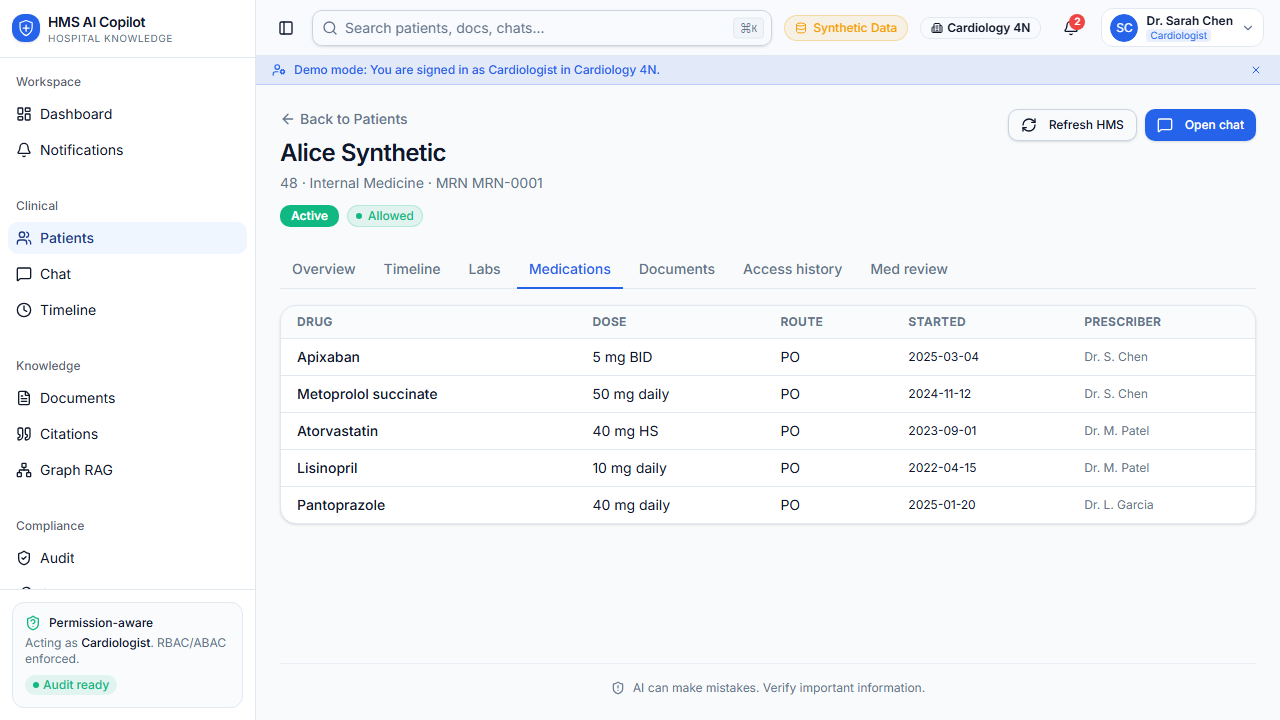
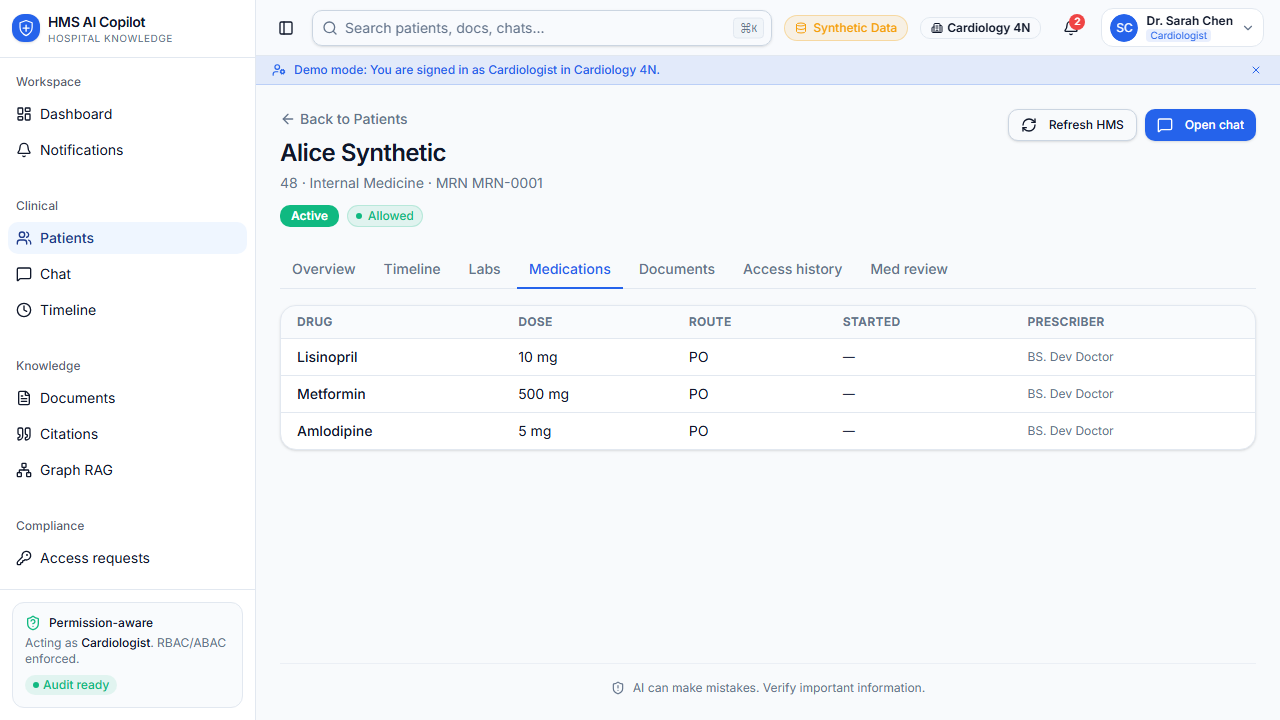
chore: update agent configs, docs, and screen-demo snapshots
- AGENTS.md / CLAUDE.md: sync GitNexus index metadata (84536 symbols)
- .khuym/state.json: checkpoint state after graph RAG v2 completion
- docs/dataset_generation_instruction.md: new — documents how the
  100-patient synthetic dataset was generated with Faker + clinical rules
- docs/plan-rag-graph-improvements.md: new — roadmap for graph RAG v3
  (community detection, temporal reasoning, multi-hop traversal)
- app/screen-demo/: refresh all 23 existing screenshots to reflect
  live-data UI; update audit, patients, chat, timeline, graph views

diff --git a/docs/plan-rag-graph-improvements.md b/docs/plan-rag-graph-improvements.md
@@ -1,0 +1,200 @@
+# Implementation Plan: RAG Ingestion, Graph Filtering, and Citations Hardening
+
+This document outlines a detailed multi-phase plan to upgrade the parsing, graph retrieval, and citation validation capabilities of the **AI-Powered Hospital Knowledge Assistant (HOSP-AI-001)**. 
+
+---
+
+## Phase 1: Advanced Document and Table Ingestion (RAGFlow-Inspired)
+**Goal:** Improve chunk semantics for structured data (tables, grids, Excel, CSV) by adopting layout-aware parsing concepts without bringing in RAGFlow's full infrastructure stack.
+
+### Task 1.1: Layout-Aware PDF & DOCX Parsing
+*   **Goal:** Replace plain text extraction with layout-aware text block segmentation to handle double-column medical records, footers, headers, and floating text boxes correctly.
+*   **Proposed Implementation:**
+    *   Integrate a lightweight layout parsing library (such as `pdfplumber` or `pypdf` with structural grouping) into [pdf_loader.py](file:///D:/projects/chatbot-hospital-system/app/backend/src/hospital_ai/services/loaders/pdf_loader.py).
+    *   Identify and strip repeated headers/footers to avoid polluting the vector index.
+*   **Acceptance Criteria:**
+    *   Double-column clinical notes are parsed in correct reading order (left column then right column) instead of interleaving lines.
+    *   All parsing is completed locally without external API calls.
+*   **Exceptions:**
+    *   Large scanned images within PDFs that require heavy OCR engines (PaddleOCR will still handle basic text, but layout analysis will fallback to text-position heuristics for performance).
+
+### Task 1.2: Structured Table & Grid Preserving Parser
+*   **Goal:** Reconstruct tabular data from Excel (`.xlsx`) and PDF tables into semantic Markdown/HTML table blocks instead of converting them into disjointed text lines.
+*   **Proposed Implementation:**
+    *   Upgrade [table_parser.py](file:///D:/projects/chatbot-hospital-system/app/backend/src/hospital_ai/services/loaders/table_parser.py) and [excel_loader.py](file:///D:/projects/chatbot-hospital-system/app/backend/src/hospital_ai/services/loaders/excel_loader.py) to read rows and columns structured as Markdown tables.
+    *   Store table headers alongside each row chunk during indexing so that individual rows retain context (e.g., instead of just embedding `Value: 1.5`, embed `Analyte: Creatinine; Value: 1.5; Unit: mg/dL; Reference Range: 0.7-1.3`).
+*   **Acceptance Criteria:**
+    *   Tabular files are indexed as readable Markdown tables.
+    *   A vector search query for a specific cell value retrieves the context of its header (column name) and row descriptor.
+*   **Exceptions:**
+    *   Merged cells spanning multiple rows/columns will be simplified to repeat values in all spanned cells rather than complex HTML rendering.
+
+### Task 1.3: Table-Specific Chunking Strategy
+*   **Goal:** Prevent table splits across arbitrary token boundaries that render rows unreadable.
+*   **Proposed Implementation:**
+    *   Modify [chunking.py](file:///D:/projects/chatbot-hospital-system/app/backend/src/hospital_ai/services/chunking.py) to recognize table markdown tags (`|---|`) and treat tables as atomic chunking units or split them strictly by rows, appending the header row to each split chunk.
+*   **Acceptance Criteria:**
+    *   Zero chunks contain partial, broken markdown tables.
+    *   Every split table chunk contains the column headers.
+*   **Exceptions:**
+    *   Tables exceeding 100 rows will be batched into chunks of 10 rows, each prepended with the header row.
+
+### Phase 1 Checkpoint: Commit & Review
+*   **Verification:** Run linting and unit tests (`bun run test` / `pytest`).
+*   **Code Review:** Review loader class changes to check memory footprint and table parsing correctness.
+*   **Commit:** Git commit changes with message `feat(RAG): layout-aware PDF and structured table ingestion`.
+
+---
+
+## Phase 2: Enhanced Graph RAG Retrieval and Filtering
+**Goal:** Add dynamic entity/role-based filtering to the SQL-backed graph database and expose these filters to the API and visual graph layout.
+
+### Task 2.1: Dynamic Entity & Relation Filtering in Graph RAG Service
+*   **Goal:** Support filtering by entity type (`drug`, `condition`, `lab`) and relation type (`treats`, `indicates`, `monitored_by`) during graph traversal.
+*   **Proposed Implementation:**
+    *   Extend `find_related_entities()` in [graph_rag.py](file:///D:/projects/chatbot-hospital-system/app/backend/src/hospital_ai/services/graph_rag.py#L270) to accept optional lists of allowed entity types and relation types.
+    *   Update the BFS SQL query to filter `GraphEntity` and `GraphRelation` records at each hop based on these filters.
+*   **Acceptance Criteria:**
+    *   Executing a graph search with `entity_types=["drug"]` returns only drug nodes and relations connected to them.
+    *   BFS traversal respects these constraints at every hop.
+*   **Exceptions:**
+    *   Root patient node is always returned regardless of the entity type filters.
+
+### Task 2.2: Expose Graph Filters to API Route
+*   **Goal:** Add query parameters to `/api/graph/patients/{patient_id}` to allow clients to filter the returned graph payload dynamically.
+*   **Proposed Implementation:**
+    *   Update [graph.py](file:///D:/projects/chatbot-hospital-system/app/backend/src/hospital_ai/api/routes/graph.py#L33) to accept optional query parameters: `types: list[str] = Query(None)` and `relations: list[str] = Query(None)`.
+    *   Pass these filters to the database query logic and compute coordinates only for active nodes.
+*   **Acceptance Criteria:**
+    *   API returns a `GraphDataResponse` containing only nodes matching the selected type list.
+    *   Edges connecting excluded nodes are omitted from the response.
+*   **Exceptions:**
+    *   If no entities match the filters, return the root patient node with an empty node/edge list instead of raising an error.
+
+### Task 2.3: User-Role Permission Filtering on Graph Nodes
+*   **Goal:** Ensure that users with specific roles (e.g., non-clinical administrative staff) cannot see clinical nodes (e.g., `lab` results, sensitive `diagnosis` nodes) even if they have general read access to the patient's record.
+*   **Proposed Implementation:**
+    *   Integrate [PermissionService](file:///D:/projects/chatbot-hospital-system/app/backend/src/hospital_ai/services/permissions.py) checks into the entity extraction and retrieval query, masking or excluding nodes based on user scope.
+*   **Acceptance Criteria:**
+    *   An admin user querying the graph receives a graph visualization with `lab` nodes filtered out, while a cardiologist user receives all nodes.
+*   **Exceptions:**
+    *   General non-PHI nodes (such as appointment dates or basic demographic fields) are visible to all authorized roles.
+
+### Phase 2 Checkpoint: Commit & Review
+*   **Verification:** Verify the graph API endpoint and test parameter filtering via query parameters.
+*   **Code Review:** Run a security code review on the SQL filters to prevent SQL injection and ensure patient scope isolation.
+*   **Commit:** Git commit changes with message `feat(graph): dynamic filters and role permission checks on graph nodes`.
+
+---
+
+## Phase 3: Citations Hardening and Rich UI Rendering
+**Goal:** Harden citation validation to eliminate LLM hallucinations and support rich visual references (document names, page numbers, and tabular data view) on the frontend.
+
+### Task 3.1: Strict Citation Text Validation
+*   **Goal:** Prevent LLMs from citing sources for facts not contained in the cited chunk.
+*   **Proposed Implementation:**
+    *   In the citation validation pipeline in [chat_stream.py](file:///D:/projects/chatbot-hospital-system/app/backend/src/hospital_ai/api/routes/chat_stream.py#L179), run an automated check to ensure that the sentence/phrase containing `[E1]` has semantic overlap or keyword match with the actual text in chunk `E1`.
+    *   If the LLM makes an assertion (e.g., "Creatinine is 2.5 [E2]") but the text in `E2` does not contain the value "2.5" or "Creatinine", raise a `CitationHallucinationException`.
+*   **Acceptance Criteria:**
+    *   Any mismatch of medical values (numbers, drug names) between the cited sentence and the source chunk triggers an immediate fallback or warning.
+*   **Exceptions:**
+    *   Minor grammatical variations or synonym matching (e.g., "sugar level" vs "glucose") are permitted to avoid excessive false positives.
+
+### Task 3.2: Extended Citation Metadata Payload
+*   **Goal:** Expose document layout details (such as page number, document name, and whether the cited source is a table) in the API response.
+*   **Proposed Implementation:**
+    *   Ensure the citation payload returned by the chat API includes structural flags: `is_table: bool`, `source_file: str`, and `page_number: int`.
+    *   Update [chat_utils.py](file:///D:/projects/chatbot-hospital-system/app/backend/src/hospital_ai/services/chat_utils.py#L168) to map these fields correctly.
+*   **Acceptance Criteria:**
+    *   The `/api/chat` and `/api/chat/stream` endpoints return a `citations` array containing metadata for every cited chunk.
+*   **Exceptions:**
+    *   Dynamic chat messages (e.g., greetings) do not require citations or return an empty array.
+
+### Task 3.3: Rich Citation UI Popover on Frontend
+*   **Goal:** Render citations as clickable badges that open a clean side-panel or popover displaying the exact source document, page, and highlighted snippet.
+*   **Proposed Implementation:**
+    *   Implement a citation component in the frontend using Tailwind/CSS.
+    *   If `is_table` is True, render the citation snippet as a formatted table grid instead of markdown source code.
+*   **Acceptance Criteria:**
+    *   Clicking a citation badge (e.g., `[1]`) opens a modal/drawer showing the document title, page number, and the exact verified chunk text.
+    *   Tables are rendered with clear grid borders.
+*   **Exceptions:**
+    *   If the original document is deleted or missing, display a fallback message stating "Source document is no longer available."
+
+### Task 3.4: Integrate Clinical System Prompt and Formatting Rules (Backend)
+*   **Goal:** Standardize LLM responses to use user-friendly clinical language instead of raw database structures or verbatim file dumps.
+*   **Proposed Implementation:**
+    *   Import and actively use the [RAG_SYSTEM_PROMPT](file:///D:/projects/chatbot-hospital-system/app/backend/src/hospital_ai/core/prompts/rag_system_prompt.py) (which is currently defined but unused in the codebase) or integrate its rules into all reasoning pipelines.
+    *   Instruct the LLM to convert raw database rows and unformatted text blocks into clear, clinician-oriented sentences, utilizing markdown headings, bold accents, and list structures.
+*   **Acceptance Criteria:**
+    *   The LLM no longer dumps raw DB row keys (e.g. `patient_id=...`) and instead writes clean prose.
+*   **Exceptions:**
+    *   Standard medical abbreviations (e.g. eGFR, BP, BID) should be preserved to align with clinical standard practices.
+
+### Task 3.5: Support Markdown Rendering in Chat Message UI (Frontend)
+*   **Goal:** Render markdown formats (such as bolding, lists, and tables) within chat bubbles instead of displaying them as raw string segments.
+*   **Proposed Implementation:**
+    *   Implement a basic markdown parser or component inside [ChatMessage.tsx](file:///D:/projects/chatbot-hospital-system/app/frontend/src/components/hms/ChatMessage.tsx) to handle formatting tags (`**`, `-`, `###`, etc.) dynamically alongside citation badge replacement.
+*   **Acceptance Criteria:**
+    *   Markdown syntax is converted to visual HTML layouts, rendering clean bulleted lists, bold headings, and inline emphasis tags on screen.
+*   **Exceptions:**
+    *   Complex custom tables will be rendered in the citation details sidebar or drawer rather than cluttering the chat bubble.
+
+### Phase 3 Checkpoint: Commit & Review
+*   **Verification:** Verify the citation validation pipeline handles hallucinated references correctly and check the markdown parser UI rendering.
+*   **Code Review:** Perform a security review of input sanitization in the markdown renderer to prevent XSS.
+*   **Commit:** Git commit changes with message `feat(chat): strict citation validator and frontend markdown rendering`.
+
+---
+
+## Phase 4: Advanced RAG Strategies (Learning from LightRAG & RAGFlow)
+**Goal:** Implement advanced optimization techniques inspired by LightRAG's graph retrieval mechanisms and RAGFlow's indexing/retrieval pipeline.
+
+### Task 4.1: Incremental Graph Updates (Inspired by LightRAG)
+*   **Goal:** Support updating the SQL-backed graph incrementally when a new patient document is uploaded, rather than fully re-indexing the entire patient graph.
+*   **Proposed Implementation:**
+    *   Update [graph_rag.py](file:///D:/projects/chatbot-hospital-system/app/backend/src/hospital_ai/services/graph_rag.py) to support upserts for `GraphEntity` and `GraphRelation` tables.
+    *   When a new document chunk is processed, extract entities and merge them with existing entities (updating confidence/weights) instead of deleting old graph entries.
+*   **Acceptance Criteria:**
+    *   Uploading a new medical record adds new nodes/edges and increments weights of existing relationships dynamically without modifying unrelated nodes.
+*   **Exceptions:**
+    *   If a document is deleted, all entities and relationships derived *exclusively* from its chunks must be soft-deleted or cleaned up.
+
+### Task 4.2: Local vs. Global Graph Query Routing (Inspired by LightRAG)
+*   **Goal:** Optimize graph-assisted retrieval by distinguishing between detail-specific queries (Local Graph Search) and general trend queries (Global Graph Search).
+*   **Proposed Implementation:**
+    *   Implement a router inside `find_related_entities()`.
+    *   **Local Search:** Focuses on immediate neighbors of extracted seed entities (e.g., "What is the dosage of Aspirin for this patient?").
+    *   **Global Search:** Focuses on summarizing high-level diagnoses and timelines across all documents (e.g., "Summarize the patient's medical history over the past 3 years").
+*   **Acceptance Criteria:**
+    *   The retrieval service automatically detects the query intent and selects either Local Graph Search (BFS depth 1-2) or Global Graph Search (BFS summarizing main nodes) to compile the context.
+*   **Exceptions:**
+    *   If the LLM cannot confidently determine query intent, it defaults to a hybrid search mode.
+
+### Task 4.3: Visual Citation Bounding Boxes (Inspired by RAGFlow)
+*   **Goal:** Store text block coordinates during OCR/parsing to highlight the exact cited paragraph on the source PDF document.
+*   **Proposed Implementation:**
+    *   Modify [pdf_loader.py](file:///D:/projects/chatbot-hospital-system/app/backend/src/hospital_ai/services/loaders/pdf_loader.py) to capture text bounding boxes (x, y, width, height) returned by the parser.
+    *   Save these coordinates as metadata in the `document_chunks` database table.
+    *   Pass the coordinates in the citation metadata payload to the frontend.
+*   **Acceptance Criteria:**
+    *   The frontend PDF viewer draws a colored outline overlay on the exact paragraph corresponding to the cited evidence chunk.
+*   **Exceptions:**
+    *   Non-PDF formats (such as Excel or raw text files) do not have coordinates; they will display text/table snippets instead.
+
+### Task 4.4: Multi-Recall Search Optimization & Reranking (Inspired by RAGFlow)
+*   **Goal:** Balance keyword and semantic matches using Reciprocal Rank Fusion (RRF) and fine-tuned reranker thresholds.
+*   **Proposed Implementation:**
+    *   Optimize [retrieval.py](file:///D:/projects/chatbot-hospital-system/app/backend/src/hospital_ai/services/retrieval.py) and [reranking.py](file:///D:/projects/chatbot-hospital-system/app/backend/src/hospital_ai/services/reranking.py) to dynamically adjust RRF constants and reranker score cutoffs based on the query type (e.g., higher keyword weight for drug names, higher semantic weight for symptoms).
+*   **Acceptance Criteria:**
+    *   Queries for specific clinical codes or drug names yield 100% recall of matching documents.
+    *   Reranked results show higher clinical relevance in test datasets.
+*   **Exceptions:**
+    *   General chit-chat queries bypass this multi-recall pipeline entirely.
+
+### Phase 4 Checkpoint: Commit & Review
+*   **Verification:** Run RAG evaluation test scripts to verify the recall rates and check the visual highlights in the PDF viewer.
+*   **Code Review:** Check the incremental graph update logic to ensure soft-deletion handles deleted documents correctly.
+*   **Commit:** Git commit changes with message `feat(RAG): incremental graph updates and multi-recall search optimization`.
+
+

diff --git a/docs/dataset_generation_instruction.md b/docs/dataset_generation_instruction.md
@@ -1,0 +1,127 @@
+# Specification & AI Instruction Manual for Generating English HMS Datasets
+
+This document serves as a comprehensive specification and instruction set for generating the complete, realistic clinical and system datasets for the **AI-Powered Hospital Knowledge Assistant (HOSP-AI-001)**. 
+
+Following the project direction, **all clinical documents, guidelines, and safety databases must be generated in English** to align with the core MVP scope defined in [project-foundation.md](file:///d:/projects/chatbot-hospital-system/docs/00-overview/project-foundation.md#L90) and ensure maximum retrieval and reasoning accuracy.
+
+---
+
+## 1. Overview of Data Gaps & Target Roles
+
+The database currently lacks actual physical files (PDFs, XLSX, CSVs) for system ingestion, relying instead on database memory seeding. To test the system end-to-end (file upload $\rightarrow$ OCR parsing $\rightarrow$ chunking/embedding $\rightarrow$ Graph RAG), we need the following files generated and placed in the correct directories:
+
+| Role & Scopes | Document / Dataset Need | File Format | File Quantity | Pages/Records per File | Standard / Rules |
+| :--- | :--- | :--- | :--- | :--- | :--- |
+| **Cardiologist** / **Hospitalist**<br>(`cardiology_guidelines`, `diagnoses`, `imaging`) | **Clinical Records & Summaries** | `.pdf` or `.docx` | **100 files** (1 per patient) | 2–4 pages | Must follow the SOAP format (Subjective, Objective, Assessment, Plan). Must include stable MRNs (MRN-0001 to MRN-0100). |
+| **Nurse** / **RN**<br>(`hospital_guidelines`, `care_plan`) | **Nursing Care Plans & General Guidelines** | `.pdf` or `.md` | **5 files** | 5–10 pages | Nursing protocols, SBAR communication formats, wound care, and daily vital tracking procedures. |
+| **Pharmacist**<br>(`medication_safety`, `renal_labs`) | **Drug-Drug & Drug-Allergy Interaction Matrix** | `.csv` or `.xlsx` | **1 file** | ~500 rows | Structured matrix listing active drug interactions, contraindications, and allergy triggers. |
+| **Lab Staff**<br>(`labs`, `renal_labs`) | **Structured Lab Trend Sheets** | `.xlsx` or `.csv` | **100 files** (1 per patient) | 1 sheet per patient | Lab panel trend data (BNP, Creatinine, eGFR, AST, ALT, Glucose, HbA1c) over a 6-month period. |
+| **Security** / **Compliance**<br>(`audit_logs`, `access_requests`) | **System Event Logs** | `.jsonl` or `.csv` | **1 file** | ~10,000 logs | Mock audit trails of sensitive patient views, access overrides, and security violations. |
+
+---
+
+## 2. Technical File Specifications & Metadata Requirements
+
+To ensure these files parse correctly via the LightRAG parsing engines (native, MinerU, Docling) and link successfully to database schemas, they must conform to the following structures:
+
+### A. Patient Clinical Records (PDF/DOCX)
+*   **Target Directory:** `app/backend/data/patients_documents/`
+*   **Naming Convention:** `patient_[MRN]_[doc_type].pdf` (e.g., `patient_MRN0001_clinical_note.pdf`)
+*   **Header Section Requirements:**
+    *   **Patient Name:** Full English synthetic name (e.g., Eleanor Vance, Bob Synthetic)
+    *   **MRN (Medical Record Number):** Match EMR database MRNs (`MRN-0001` through `MRN-0100`)
+    *   **Date of Birth (DOB):** YYYY-MM-DD
+    *   **Encounter Date:** YYYY-MM-DD (between 2023-01-01 and 2026-06-01)
+    *   **Attending Provider:** Match seeded doctor names (e.g., `BS. Tran Van Minh`, `BS. Nguyen Thi Lan`, `BS. Le Hoang Phuc`)
+*   **Body Content Requirements:**
+    *   Must use clinical abbreviations (e.g., BP, HR, RR, SpO2, eGFR, BID, QID, PRN).
+    *   Clinical notes must be written in **SOAP** format.
+    *   Discharge summaries must clearly delineate: "Reason for Admission", "Hospital Course", "Discharge Medications", "Allergies", and "Follow-up Plan".
+
+### B. Lab Trend Spreadsheets (XLSX)
+*   **Target Directory:** `app/backend/data/patients_labs/`
+*   **Naming Convention:** `patient_[MRN]_labs.xlsx`
+*   **Structure:**
+    *   **Sheet 1: Demographic Info** (Patient Name, MRN, DOB, Gender).
+    *   **Sheet 2: Lab Results** (A tabular format with columns):
+        *   `Date` (YYYY-MM-DD)
+        *   `Analyte` (e.g., Creatinine, Glucose, HbA1c, BNP, AST, ALT, Potassium, Hemoglobin)
+        *   `Value` (Numeric representation)
+        *   `Unit` (e.g., mg/dL, mmol/L, %, pg/mL, U/L)
+        *   `Reference Range` (e.g., 0.7-1.3, <100, 3.5-5.0)
+        *   `Status` (Normal | High | Low)
+
+### C. Drug Interaction & Safety Database (CSV)
+*   **Target Directory:** `app/backend/data/drugs/drug_interaction_matrix.csv`
+*   **Columns Required:**
+    *   `drug_a` (string, lowercase - generic name, e.g., "apixaban")
+    *   `drug_b` (string, lowercase - generic name/class, e.g., "aspirin" or "nsaid")
+    *   `interaction_type` (string, enum: `contraindicates` | `interacts_with` | `causes` | `mentioned_with`)
+    *   `severity` (string, enum: `critical` | `high` | `medium` | `low`)
+    *   `mechanism_action` (text - explanation of why they interact)
+    *   `clinical_recommendation` (text - action required by clinician)
+
+### D. System Auditing Logs (JSONL)
+*   **Target Directory:** `app/backend/data/security/audit_logs.jsonl`
+*   **JSON Fields Required per line:**
+    *   `actor_user_id` (UUID matching seeded users)
+    *   `action` (string, e.g., `chat.ask`, `document.upload`, `patient.view`)
+    *   `object_type` (string, e.g., `ai_query`, `document`, `patient`)
+    *   `object_id` (UUID)
+    *   `patient_id` (UUID matching seeded patients)
+    *   `outcome` (string, enum: `allowed` | `denied` | `failed`)
+    *   `trace_id` (UUID)
+    *   `ip_address` (IP string)
+    *   `metadata` (JSON block containing queries, justification reasons, and error codes)
+
+---
+
+## 3. Ingestion Metadata Schema
+
+When these files are uploaded or indexed, the ingestion pipeline must receive the following metadata payload to correctly seed the database model:
+
+```json
+{
+  "patient_id": "UUID matching patient record",
+  "uploaded_by": "UUID matching doctor/records staff",
+  "title": "Document Title (e.g. Discharge Summary 2026-05)",
+  "document_type": "prescription | lab_result | clinical_note | discharge_summary | imaging_report | encounter_note",
+  "mime_type": "application/pdf | application/vnd.openxmlformats-officedocument.spreadsheetml.sheet | text/csv",
+  "access_tags": ["cardiology", "medication", "labs", "read"]
+}
+```
+
+---
+
+## 4. Prompt Template for the Generator AI
+
+Copy and paste the prompt below into another LLM (e.g., Claude 3.5 Sonnet, GPT-4o) to generate the complete dataset.
+
+```markdown
+You are an expert Medical Data Generator and Health Informatics Specialist. 
+Generate a complete dataset of clinical files in English for the chatbot-hospital-system project (HOSP-AI-001). 
+
+### Setup Requirements:
+1. Generate synthetic patients with MRNs from MRN-0001 to MRN-0100.
+2. Ensure patient demographics match realistic clinical profiles (e.g., Bob Synthetic, Post-CABG, MRN-0002; Eleanor Vance, AFib & CKD Stage 3, MRN-0003).
+3. Use realistic dates between 2023-01-01 and 2026-06-01.
+
+### Tasks to Perform:
+Generate the raw text contents for:
+1. 100 Patient Clinical Documents (PDF layouts as Markdown):
+   - 25 Lab Results (tabular layout with analytes: Creatinine, HbA1c, BNP, Glucose, eGFR).
+   - 20 Clinical Notes (attending SOAP notes).
+   - 10 Discharge Summaries (detailed courses of treatment, medication adjustments).
+   - 15 Imaging Reports (X-ray, Echocardiogram with structural finding descriptions).
+   - 20 Prescriptions (drug name, dosage, frequency).
+   - 10 Encounter SOAP Notes.
+2. A single comprehensive CSV dataset named 'drug_interaction_matrix.csv' containing at least 200 rows of drug-drug and drug-allergy interactions (using lowercase generic drug names like 'apixaban', 'lisinopril', 'metformin', 'aspirin', 'ibuprofen'). Use columns: drug_a, drug_b, interaction_type (contraindicates|interacts_with|causes|mentioned_with), severity (critical|high|medium|low), mechanism_action, clinical_recommendation.
+3. 5 General Nursing Care Guidelines (Markdown) covering SBAR, vital signs check protocol, and wound care.
+
+### Output Constraints:
+- Do NOT use diacritics. All output must be in professional clinical English.
+- Delineate each file block with a clear file path header, for example:
+  === FILE: app/backend/data/patients_documents/patient_MRN0002_discharge.txt ===
+  [Insert content here]
+- Ensure numbers, reference ranges, and clinical plans are medically plausible (e.g., do not write Metformin 500g, write Metformin 500mg BID).
+```

diff --git a/AGENTS.md b/AGENTS.md
@@ -128,7 +128,7 @@ Before ending a substantial Khuym work chunk:
 <!-- gitnexus:start -->
 # GitNexus — Code Intelligence
 
-This project is indexed by GitNexus as **chat-hospital-system** (21256 symbols, 42557 relationships, 300 execution flows). Use the GitNexus MCP tools to understand code, assess impact, and navigate safely.
+This project is indexed by GitNexus as **chat-hospital-system** (84536 symbols, 213797 relationships, 300 execution flows). Use the GitNexus MCP tools to understand code, assess impact, and navigate safely.
 
 > Index stale? Run `node .gitnexus/run.cjs analyze` from the project root — it auto-selects an available runner. No `.gitnexus/run.cjs` yet? `npx gitnexus analyze` (npm 11 crash → `npm i -g gitnexus`; #1939).
 

diff --git a/CLAUDE.md b/CLAUDE.md
@@ -1,7 +1,7 @@
 <!-- gitnexus:start -->
 # GitNexus — Code Intelligence
 
-This project is indexed by GitNexus as **chat-hospital-system** (21256 symbols, 42557 relationships, 300 execution flows). Use the GitNexus MCP tools to understand code, assess impact, and navigate safely.
+This project is indexed by GitNexus as **chat-hospital-system** (84536 symbols, 213797 relationships, 300 execution flows). Use the GitNexus MCP tools to understand code, assess impact, and navigate safely.
 
 > Index stale? Run `node .gitnexus/run.cjs analyze` from the project root — it auto-selects an available runner. No `.gitnexus/run.cjs` yet? `npx gitnexus analyze` (npm 11 crash → `npm i -g gitnexus`; #1939).
 
